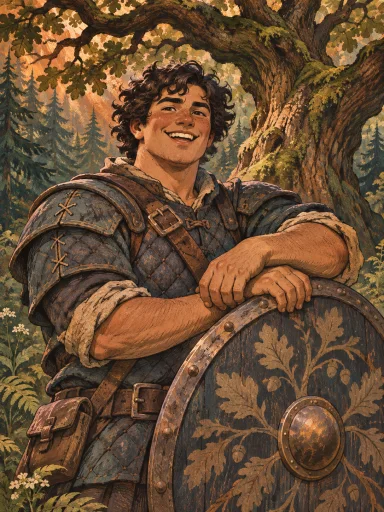
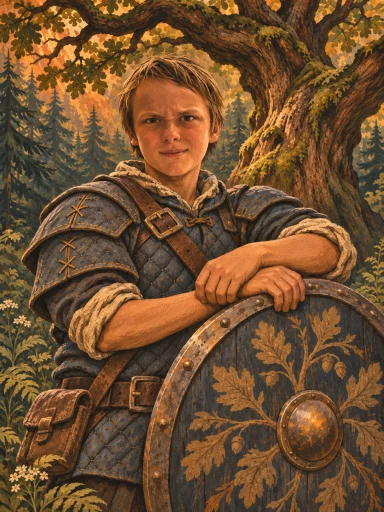
Add optional drafts, Hard route perks, and a guided tutorial

diff --git a/index.html b/index.html
@@ -34,23 +34,45 @@
     <main class="game-main" id="game"></main>
     <footer class="app-footer"><span>Crittercards</span><span>The Hollow Trail · Playtest build</span></footer>
   </div>
-  <dialog id="rules" aria-labelledby="rules-title">
-    <div class="lobby-panel">
-      <h2 id="rules-title">How to play</h2>
-      <ol>
-        <li>Pick a cousin or a woodland familiar and build a starting deck. Your character brings two signature cards. On a shared screen, take turns with the controls.</li>
-        <li>In single player, choose one character. Cards that help an ally help your own character instead, and rivals have less health and attack damage.</li>
-        <li>Spend energy to play cards. Select an enemy first for targeted cards. Enemies act after both players finish their turns.</li>
-        <li>Fixed card costs range from 0 to 3 energy. An X-cost card spends all remaining energy and repeats its effect once per energy spent.</li>
-        <li>Hit the enemy your partner attacked most recently to trigger a Bond Strike once per round. Read enemy intents to decide who needs protection.</li>
-        <li>Strength adds attack damage for the fight. Vulnerable increases incoming damage by 50% on the next hit. Frail reduces the next Block gain by 3.</li>
-        <li>Each character has a type. Ember beats Grove, Grove beats Tide, Tide beats Stone, and Stone beats Ember. Super effective attacks deal 50% more damage. Attacking in the reverse direction deals 25% less. Other matchups deal normal damage. Type changes damage before Block and Vulnerable.</li>
-        <li>Defeat rivals to unlock library cards for future decks. After a trainer win, draft a card and pick a level-up perk for the current run.</li>
-        <li>Pick a route at each level. Tougher fights pay more gold. Spend the shared gold at optional merchants to add cards to either deck for this run.</li>
-        <li>At an optional camp, each familiar chooses to heal 30% of its maximum health or upgrade one card for the rest of the run.</li>
-        <li>Use Save game during a run, then Continue saved game on the opening screen. The save stays in this browser. A room game resumes with both players on one screen.</li>
-      </ol>
-      <form method="dialog"><button autofocus class="button button-primary">Back to the trail</button></form>
+  <dialog id="rules" aria-labelledby="rules-title" aria-describedby="tutorial-progress">
+    <div class="lobby-panel tutorial">
+      <div class="tutorial-top"><span class="eyebrow">The Hollow Trail</span><span id="tutorial-progress" class="muted" aria-live="polite"></span></div>
+      <h2 id="rules-title" tabindex="-1">How to play</h2>
+      <div class="tutorial-content" aria-live="polite">
+        <section data-tutorial-step>
+          <h3>Choose your team</h3>
+          <p>Choose <strong>Single player</strong> for one character, or <strong>Share a screen</strong> for two. You can also create a room to play on separate screens.</p>
+          <p>Pick a cousin or a woodland familiar. Each has a type and a signature card. The rest of the woodland creatures can be recruited as you play.</p>
+        </section>
+        <section data-tutorial-step hidden>
+          <h3>Build a deck</h3>
+          <p>Choose five cards for each character. You can keep the starting selection or change it. Your character brings two signature cards, making seven cards in the starting deck.</p>
+          <p>Include at least one attack, and use no more than two copies of any library card. Then choose <strong>Begin the trail</strong>.</p>
+        </section>
+        <section data-tutorial-step hidden>
+          <h3>Choose a path</h3>
+          <p>Pick a fight on the trail map. Hard fights pay more gold. Win the level 3 Hard fight to choose an extra perk for the rest of the run.</p>
+          <p>Merchants sell cards for your current run. At a camp, each character can heal 30% of maximum health or upgrade one card. Both stops are optional.</p>
+        </section>
+        <section data-tutorial-step hidden>
+          <h3>Play a turn</h3>
+          <p>Look at each rival’s intent to see what it plans to do. Select a rival, then play an attack card. Use Block cards to absorb incoming damage.</p>
+          <p>Most turns start with <strong>3 energy</strong>. A card’s number is its cost. An X card spends all remaining energy and repeats once per energy spent. Choose <strong>End turn</strong> when you’re ready.</p>
+          <p>In co-op, both players take a turn before the rivals act. Have your partner attack the same rival you hit most recently to trigger a Bond Strike once per round.</p>
+        </section>
+        <section data-tutorial-step hidden>
+          <h3>Types and effects</h3>
+          <p><strong>Ember beats Grove · Grove beats Tide · Tide beats Stone · Stone beats Ember.</strong> A strong matchup deals 50% more damage. The reverse matchup deals 25% less.</p>
+          <p><strong>Strength</strong> adds attack damage. <strong>Vulnerable</strong> increases the next hit by 50%. <strong>Frail</strong> reduces the next Block gain by 3. The battle screen shows active effects and matchups.</p>
+        </section>
+        <section data-tutorial-step hidden>
+          <h3>Grow and save your run</h3>
+          <p>After a trainer fight, choose a level-up perk and take a card or skip it. Each player confirms their own choice. Defeating rivals also unlocks cards and creatures for future runs.</p>
+          <p>Choose <strong>Save game</strong> during a run, then <strong>Continue saved game</strong> on the opening screen. Saves stay in this browser. A saved room game resumes on one shared screen.</p>
+          <p>Ready? Your goal is to cross the 20-level trail and defeat the Ash Regent.</p>
+        </section>
+      </div>
+      <div class="tutorial-actions"><button type="button" class="button button-ghost" data-do="tutorial-close">Skip tutorial</button><button type="button" class="button button-secondary" data-do="tutorial-back">Back</button><button type="button" class="button button-primary" data-do="tutorial-next">Next</button></div>
     </div>
   </dialog>
   <script type="module" src="app.mjs"></script>

diff --git a/styles.css b/styles.css
@@ -157,7 +157,7 @@ img.hero-art { mask-image: linear-gradient(90deg, transparent, #000 24%); }
 .critter-grid { display: grid; grid-template-columns: repeat(auto-fit, minmax(min(100%, 13rem), 1fr)); gap: .9rem; }
 .critter-grid:has(> :nth-child(5)) { grid-template-columns: repeat(4, minmax(0, 1fr)); }
 .cousin-roster { margin-bottom: 1.5rem; }
-.cousin-roster .critter-art img { object-position: center 35%; }
+.cousin-roster .critter-art img { object-position: center 20%; }
 .critter-card {
   position: relative;
   display: flex;
@@ -360,6 +360,15 @@ dialog {
   box-shadow: 0 1.5rem 4rem #050b08a8;
 }
 dialog::backdrop { background: #07120cca; }
+.tutorial { gap: 1.15rem; padding: clamp(1.25rem, 4vw, 2rem); }
+.tutorial-top { display: flex; justify-content: space-between; align-items: center; gap: .75rem; }
+.tutorial h2 { font-size: clamp(2rem, 5vw, 2.8rem); }
+.tutorial-content section { display: grid; gap: .8rem; }
+.tutorial-content h3 { color: var(--lime); font-size: 1.4rem; }
+.tutorial-content p { line-height: 1.55; }
+.tutorial-actions { display: flex; flex-wrap: wrap; align-items: center; gap: .6rem; padding-top: .4rem; border-top: 1px solid var(--line); }
+.tutorial-actions [data-do='tutorial-close'] { margin-right: auto; }
+.tutorial-actions .button { min-height: 2.75rem; }
 dialog ol { display: grid; gap: .65rem; margin: 0 0 .5rem; padding-left: 1.35rem; }
 .room-code {
   width: fit-content;

diff --git a/README.md b/README.md
@@ -15,7 +15,7 @@ The four cousins are playable from the start.
 - **Hudson · Tank · 48 HP.** Shield Wall protects him and his partner.
 - **Quinn · Witch · 30 HP.** Witch’s Hex makes a rival Vulnerable and Frail.
 - **Alba · Bard · 32 HP.** Cutting Chorus sings one damaging note per energy spent.
-- **Tito · Trickster · 19 HP.** The youngest cousin’s Secret Star spends 3 energy to deal 22 base damage through Block.
+- **Tito · Witch · 35 HP.** His Secret Star spell spends 3 energy to deal 22 base damage through Block.
 
 Ember the fox and Pip the hare are available from the start, too. Recruit Bramble the badger and Latch the raccoon at your first win. The collection shows requirements for all 30 species, and your browser remembers your recruits across runs. Each animal has a signature card, a role, and its own starting health. Level-up perks include attack damage, health, starting Block, extra cards, starting energy, and healing.
 
@@ -27,7 +27,9 @@ Every animal has one type. Ember beats Grove, Grove beats Tide, Tide beats Stone
 
 Fixed costs range from 0 to 3 energy. Quick Jab and Quick Brace cost 0 and give you 2 damage or 2 Block. Briar Lunge costs 2 for 13 damage, while Root Barricade costs 2 for 11 Block for you and 10 for your partner. Crownfall spends 3 for 24 damage and 5 Block for your partner. X-cost cards spend all remaining energy and repeat once per energy spent. Wild Flurry deals four base damage per hit and moves to another rival if its target falls. Thorn Circle grants both familiars Block per energy spent.
 
-The trail map has 20 levels with two fights at every level and a difficult final boss. Hard fights appear at levels 3, 6, 10, 14, 18, and 20. Standard routes pay 8 gold per rival. Hard routes have stronger enemies and pay 24 gold per rival. The map shows each enemy’s health and the total gold available. After each fight before the boss, players gain health capacity and choose one perk and one draft card. During combat, read intents, cover your partner, and follow up on your partner’s latest target for a Bond Strike.
+The trail map has 20 levels with two fights at every level and a difficult final boss. Hard fights appear at levels 3, 6, 10, 14, 18, and 20. Standard routes pay 8 gold per rival. Hard routes have stronger enemies and pay 24 gold per rival. The map shows each enemy’s health and the total gold available. After each fight before the boss, each player levels up, gains health capacity, picks a perk, and can take or skip a card. During combat, read intents, cover your partner, and follow up on your partner’s latest target for a Bond Strike.
+
+Win the level 3 Hard fight to choose an extra run-long perk per familiar. Briar Ambush adds 5 base damage to your first attack hit each fight. Trail Ward starts every fight with 8 extra Block. In co-op, Bond Ward grants both familiars 5 Block per player who chose it on the first Bond Strike each fight.
 
 The Ash Regent uses Eclipse to damage the team and apply Vulnerable, Shadow Ward to gain Block and heal, and Crown Curse to attack one familiar and apply Frail and Vulnerable. Watch the intent shown above each turn.
 
